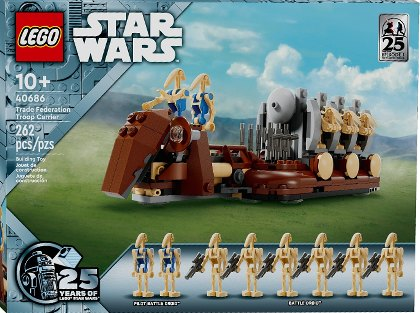
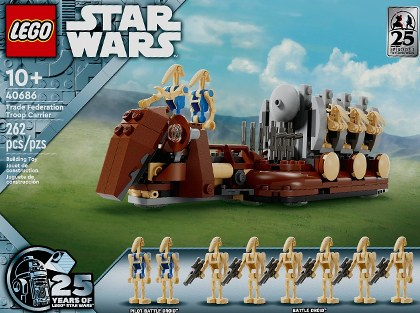
Dobozlapok: fehér élcsíkok (háttér és élfény) eltávolítva, a dizájn épen marad
Claude-Session: https://claude.ai/code/session_01R5Rp62Ha9wasDz8DCjrd26

diff --git a/app.js b/app.js
@@ -99,7 +99,7 @@
     const W = 134, H = 118;
     let w = W, h = W * m.h; if (h > H) { h = H; w = H / m.h; }
     const d = w * m.d, base = `assets/boxes/${encodeURIComponent(i.no)}`;
-    return `<div class="stage"><div class="box3d side-${m.side}" data-side="${m.side}" style="--w:${w.toFixed(1)}px;--h:${h.toFixed(1)}px;--d:${d.toFixed(1)}px;--front:url('${base}-front.jpg');--side:url('${base}-side.jpg');--top:url('${base}-top.jpg')">
+    return `<div class="stage"><div class="box3d side-${m.side}" data-side="${m.side}" style="--w:${w.toFixed(1)}px;--h:${h.toFixed(1)}px;--d:${d.toFixed(1)}px;--front:url('${base}-front.jpg?v=202610182231');--side:url('${base}-side.jpg?v=202610182231');--top:url('${base}-top.jpg?v=202610182231')">
       <i class="f front" role="img" aria-label="${esc(i.name)}"></i>
       <i class="f back"></i><i class="f l"></i><i class="f r"></i><i class="f t"></i><i class="f bt"></i>
     </div></div>`;

diff --git a/figurak.html b/figurak.html
@@ -12,7 +12,7 @@
 <link rel="preconnect" href="https://fonts.googleapis.com">
 <link rel="preconnect" href="https://fonts.gstatic.com" crossorigin>
 <link href="https://fonts.googleapis.com/css2?family=Fraunces:opsz,wght@9..144,600;9..144,800&family=Bricolage+Grotesque:opsz,wght@12..96,400;12..96,600;12..96,700&display=swap" rel="stylesheet">
-<link rel="stylesheet" href="style.css?v=202610182228">
+<link rel="stylesheet" href="style.css?v=202610182231">
 </head>
 <body data-page="catalog" data-type="MINIFIG">
 
@@ -95,6 +95,6 @@
   </div>
 </footer>
 
-<script src="app.js?v=202610182228"></script>
+<script src="app.js?v=202610182231"></script>
 </body>
 </html>

diff --git a/szettek.html b/szettek.html
@@ -12,7 +12,7 @@
 <link rel="preconnect" href="https://fonts.googleapis.com">
 <link rel="preconnect" href="https://fonts.gstatic.com" crossorigin>
 <link href="https://fonts.googleapis.com/css2?family=Fraunces:opsz,wght@9..144,600;9..144,800&family=Bricolage+Grotesque:opsz,wght@12..96,400;12..96,600;12..96,700&display=swap" rel="stylesheet">
-<link rel="stylesheet" href="style.css?v=202610182228">
+<link rel="stylesheet" href="style.css?v=202610182231">
 </head>
 <body data-page="catalog" data-type="SET">
 
@@ -94,6 +94,6 @@
   </div>
 </footer>
 
-<script src="app.js?v=202610182228"></script>
+<script src="app.js?v=202610182231"></script>
 </body>
 </html>

diff --git a/index.html b/index.html
@@ -12,7 +12,7 @@
 <link rel="preconnect" href="https://fonts.googleapis.com">
 <link rel="preconnect" href="https://fonts.gstatic.com" crossorigin>
 <link href="https://fonts.googleapis.com/css2?family=Fraunces:opsz,wght@9..144,600;9..144,800&family=Bricolage+Grotesque:opsz,wght@12..96,400;12..96,600;12..96,700&display=swap" rel="stylesheet">
-<link rel="stylesheet" href="style.css?v=202610182228">
+<link rel="stylesheet" href="style.css?v=202610182231">
 </head>
 <body data-page="home">
 
@@ -146,6 +146,6 @@
   </div>
 </footer>
 
-<script src="app.js?v=202610182228"></script>
+<script src="app.js?v=202610182231"></script>
 </body>
 </html>

diff --git a/befektetoknek.html b/befektetoknek.html
@@ -9,7 +9,7 @@
 <link rel="preconnect" href="https://fonts.googleapis.com">
 <link rel="preconnect" href="https://fonts.gstatic.com" crossorigin>
 <link href="https://fonts.googleapis.com/css2?family=Fraunces:opsz,wght@9..144,600;9..144,800&family=Bricolage+Grotesque:opsz,wght@12..96,400;12..96,600;12..96,700&display=swap" rel="stylesheet">
-<link rel="stylesheet" href="style.css?v=202610182228">
+<link rel="stylesheet" href="style.css?v=202610182231">
 <style>
   [hidden]{display:none!important}
   body{min-height:100vh;display:flex;flex-direction:column}

diff --git a/scripts/box_faces.py b/scripts/box_faces.py
@@ -157,20 +157,57 @@ def warp(img, quad_tl_tr_br_bl, w, h, inset=0.025):
     bgr = out[:, :, :3].astype(np.float32)
     a = out[:, :, 3:4].astype(np.float32) / 255.0
     flat = (bgr * a + 255 * (1 - a)).astype(np.uint8)  # flatten onto white
-    return trim_white(flat)
+    for _ in range(3):  # a line further in can surface after the first cut
+        trimmed = trim_white(flat)
+        if trimmed is flat:
+            break
+        flat = trimmed
+    return flat
 
 
-def trim_white(face, limit=0.08):
-    """Cut away near-white rows/columns that are left on the borders, then scale back."""
+def trim_white(face, band=0.12):
+    """Cut away white lines near the borders: background left at the edge and the
+    bright highlight along the box edges, which can sit a few pixels inside the face.
+    Within the outer 12 % of each side, everything up to the innermost white line is
+    removed, then the face is scaled back to its size."""
     h, w = face.shape[:2]
     g = cv2.cvtColor(face, cv2.COLOR_BGR2GRAY).astype(np.float32)
-    whiteish = lambda v: (v > 225).mean() > 0.6
-    t, b, l, r = 0, h, 0, w
-    while t < h * limit and whiteish(g[t, l:r]): t += 1
-    while h - b < h * limit and whiteish(g[b - 1, l:r]): b -= 1
-    while l < w * limit and whiteish(g[t:b, l]): l += 1
-    while w - r < w * limit and whiteish(g[t:b, r - 1]): r -= 1
-    if (t, b, l, r) == (0, h, 0, w):
+    white_row = (g > 228).mean(axis=1) > 0.85   # a highlight line runs along the whole edge
+    white_col = (g > 228).mean(axis=0) > 0.85
+    bh, bw = max(2, int(h * band)), max(2, int(w * band))
+
+    def thin_lines(flags, idxs, maxrun=5):
+        """indices that belong to thin white runs (lines), not to wide white artwork"""
+        out, run = [], []
+        for i in list(idxs) + [None]:
+            if i is not None and flags[i] and (not run or i == run[-1] + 1):
+                run.append(i); continue
+            if run and len(run) <= maxrun:
+                out += run
+            run = [i] if (i is not None and flags[i]) else []
+        return out
+
+    # pure white touching the border is leftover photo background: always cut it
+    bg_row = (g > 242).mean(axis=1) > 0.55
+    bg_col = (g > 242).mean(axis=0) > 0.55
+
+    def edge_run(flags, idxs):
+        out = []
+        for i in idxs:
+            if not flags[i]:
+                break
+            out.append(i)
+        return out
+
+    top = thin_lines(white_row, range(bh)) + edge_run(bg_row, range(bh))
+    bot = thin_lines(white_row, range(h - bh, h)) + edge_run(bg_row, range(h - 1, h - bh - 1, -1))
+    lef = thin_lines(white_col, range(bw)) + edge_run(bg_col, range(bw))
+    rig = thin_lines(white_col, range(w - bw, w)) + edge_run(bg_col, range(w - 1, w - bw - 1, -1))
+    t = max(top) + 2 if top else 0
+    b = min(bot) - 1 if bot else h
+    l = max(lef) + 2 if lef else 0
+    r = min(rig) - 1 if rig else w
+    if (t, b, l, r) == (0, h, 0, w) or b - t < h * 0.6 or r - l < w * 0.6:
         return face
     return cv2.resize(face[t:b, l:r], (w, h), interpolation=cv2.INTER_CUBIC)
 
